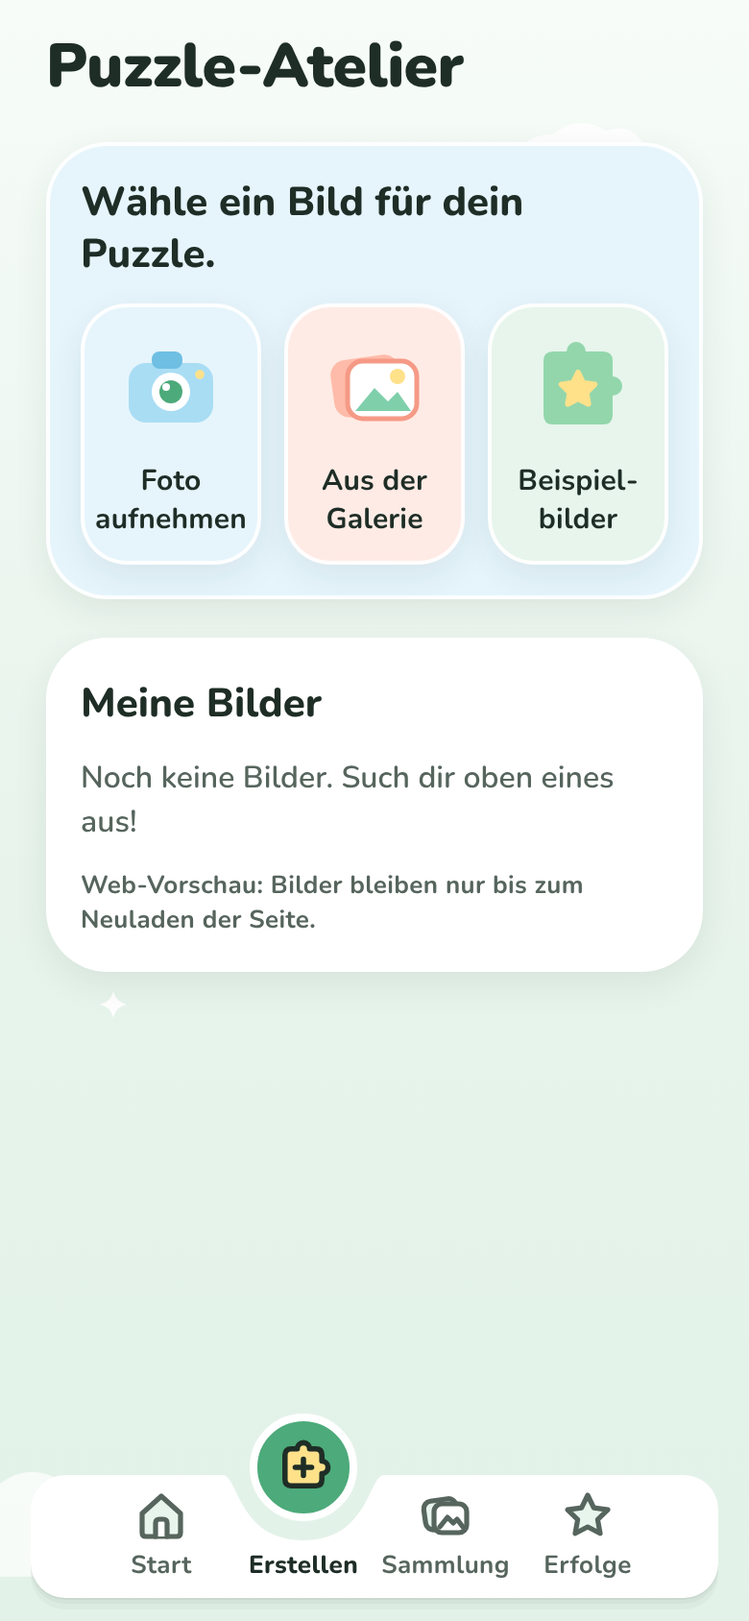
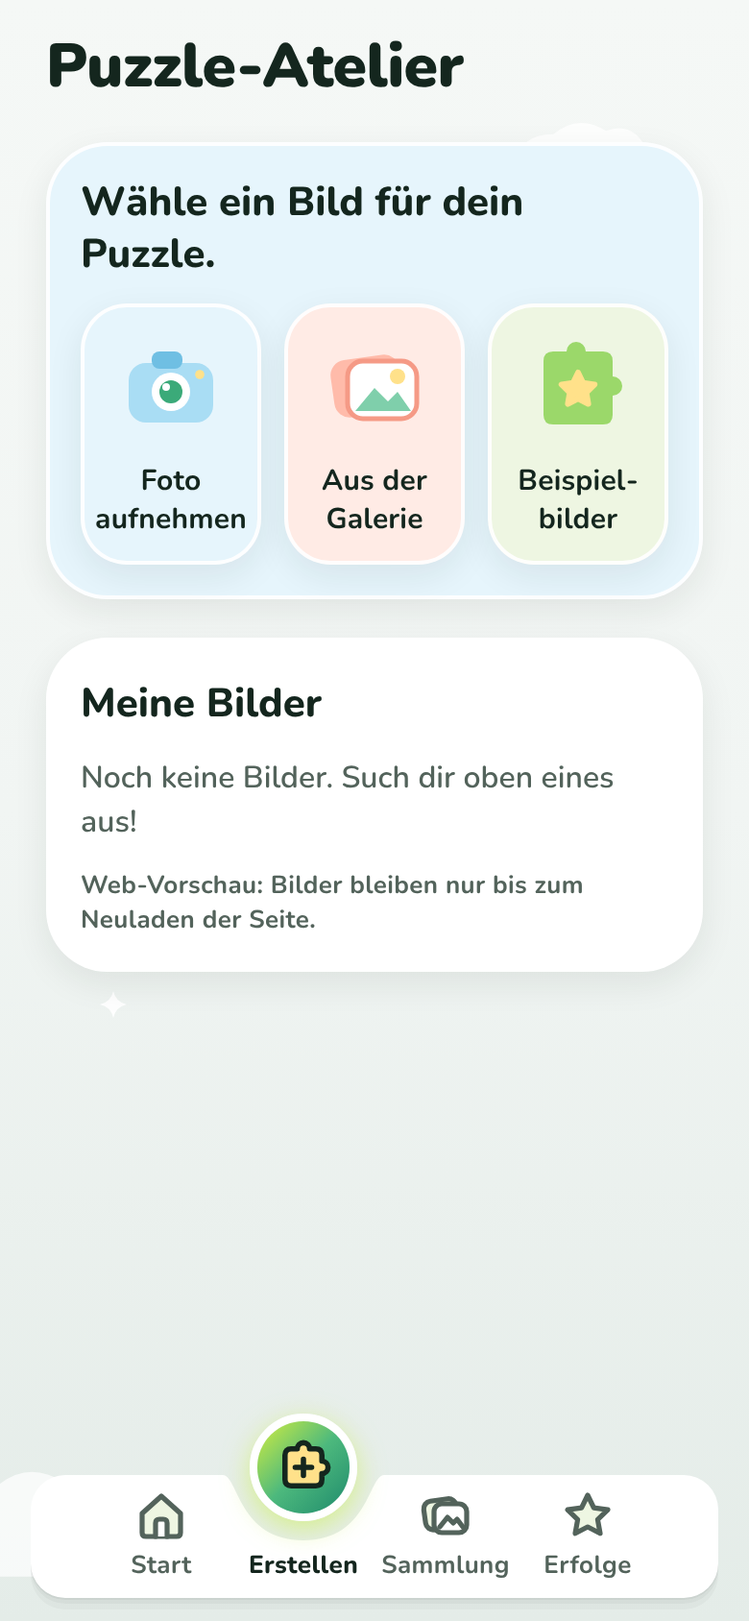
docs: describe Pino after the PO's concept art and the file hand-over
Claude-Session: https://claude.ai/code/session_01CZ9FFcy5zGQryXQRGVkaUU

Changed region(s): [[0.3077, 0.8626, 0.4923, 0.955], [0.7077, 0.2156, 0.8308, 0.2773]]

diff --git a/docs/previews/milestone-reports/2026-11-04-update-02-mint-style.md b/docs/previews/milestone-reports/2026-11-04-update-02-mint-style.md
@@ -1,30 +1,29 @@
-# Änderung 02 – Neuer Look: Mint und weiches 3D
+# Änderung 02 – Neuer Look: Pino als glänzendes Puzzleteil, Limette → Petrol
 
-**Datum:** 2026-11-04 · **Anlass:** Wunsch des PO („Maskottchen und Farben diesem Stil anpassen“, Referenzbild mit weichem, glänzendem 3D in Mint) · Entscheidung des PO: **Mint/Grün als Grundfarbe** · **Status:** umgesetzt, wartet auf Review
+**Datum:** 2026-11-04 · **Anlass:** Wunsch des PO – zuerst Stil-Referenz (weiches 3D, Mint), dann **eigenes Konzeptbild des PO**: Pino als glänzendes Puzzleteil mit Limette-Petrol-Verlauf und Neon-Effekten, „genau dieses Maskottchen, Stil auf die ganze App“ · **Status:** umgesetzt (Pino als Vektor-Nachzeichnung bis die Original-Dateien vom PO kommen), wartet auf Review
 
 > Screenshots stammen aus der **laufenden App** (Web via Chromium; Android-/iOS-Läufe siehe unten). Die Pino-Übersicht ist direkt aus dem App-Code (`pinoSvg`) gerendert.
 
 ## Was sich ändert
 
-| Bereich                             | Vorher                   | Jetzt                                                                                                                                                     |
-| ----------------------------------- | ------------------------ | --------------------------------------------------------------------------------------------------------------------------------------------------------- |
-| Markenfarbe                         | Lavendel / Lila          | frisches **Mint/Grün** (`leaf`-Skala), kleiner Markentext tief-grün (`forest`)                                                                            |
-| Hintergründe                        | Creme mit Rosa-Hauch     | helles **Mint-Weiß** (`mist`)                                                                                                                             |
-| Haupt-Knöpfe                        | gelb mit dunkler Schrift | **tiefgrün, glänzend, weiße Schrift** wie „Get started“ in der Referenz; „Weiter“/„Fertig“ grün                                                           |
-| Große Aktionskarte                  | heller Lila-Verlauf      | tiefgrüner Verlauf, weiße Schrift                                                                                                                         |
-| Tab-Leiste                          | lila Blase               | grüne Blase                                                                                                                                               |
-| Text                                | Navy / Grau-Lila         | grün-getöntes Fast-Schwarz (`ink`) / Grau (`slate`)                                                                                                       |
-| Schatten                            | Navy-getönt              | grün-getönt, weich                                                                                                                                        |
-| **Pino**                            | Honiggelb, Kontur        | **Mint, weiches 3D**: Licht von oben links, dunklere Unterseite, großer Glanz, grünes Leuchten am Boden, kaum Kontur; Stern-Clip jetzt gelb, Wangen rosig |
-| App-Icon, Startbild, Beispielbilder | alt                      | neu gerendert im neuen Stil                                                                                                                               |
+| Bereich                             | Vorher                   | Jetzt                                                                                                                                                                                                                                                                                                    |
+| ----------------------------------- | ------------------------ | -------------------------------------------------------------------------------------------------------------------------------------------------------------------------------------------------------------------------------------------------------------------------------------------------------- |
+| **Pino**                            | gelbes Quadrat mit Armen | **glänzendes Puzzleteil mit vier Knubbeln** nach dem Konzeptbild des PO: Verlauf Limette → Grün → Petrol, Glanz oben links, dunklere Unterseite, kleine dunkle Augen, schmales Lächeln, leicht schräg; **Neon-Limette-Effekte** je Stimmung (Funkeln, Ring, Fragezeichen, „!“-Striche, Krone, Herz, Zzz) |
+| Markenfarben                        | Lavendel / Lila          | **Limette → Grün → Petrol** (`lime`, `leaf`-Skala, `teal`), Neon-Limette (`neon`) als Leuchtakzent, kleiner Markentext tief-petrol (`forest`)                                                                                                                                                            |
+| Hintergründe                        | Creme mit Rosa-Hauch     | kühles, weiches **Grau-Grün** (`mist`) wie im Konzeptbild                                                                                                                                                                                                                                                |
+| Haupt-Knöpfe                        | gelb, dunkle Schrift     | **tief petrolgrün, glänzend, weiße Schrift**; „Weiter“/„Fertig“ grün                                                                                                                                                                                                                                     |
+| Große Aktionskarte                  | Lila-Verlauf             | **Pino-Verlauf Limette → Grün**, dunkle Schrift                                                                                                                                                                                                                                                          |
+| Tab-Leiste                          | lila Blase               | Blase im Pino-Verlauf mit weißem Ring und Neon-Schimmer                                                                                                                                                                                                                                                  |
+| Text / Schatten                     | Navy                     | grün-getöntes Fast-Schwarz (`ink`), grün-getönte Schatten                                                                                                                                                                                                                                                |
+| App-Icon, Startbild, Beispielbilder | alt                      | neu gerendert mit dem neuen Pino                                                                                                                                                                                                                                                                         |
 
-Gelb, Himmelblau, Pfirsich und Rosa bleiben als **Akzente** (Sterne, Belohnungen, Kategorie-Karten) – wie die gelbe und blaue Karte im Referenzbild.
+Gelb, Himmelblau, Pfirsich und Rosa bleiben als **Akzente** (Sterne, Belohnungen, Kategorie-Karten).
 
-**Abgrenzung:** Aus der Referenz übernommen werden nur Licht, Material und Farbstimmung. Deren Figur (grüner Wolken-Blob) wird nicht nachgebildet – Pino bleibt ein Puzzleteil mit Stern-Clip, Armen und Füßen ([Maskottchen-Richtlinien](../../design/mascot-guidelines.md)).
+**Original-Dateien:** Der PO liefert Pino als PNG/SVG. Bis dahin ist Pino eine Vektor-Nachzeichnung im App-Code (`packages/ui/src/mascot/pino.ts`), damit er in allen Größen scharf bleibt und alle 8 Stimmungen funktionieren. Die gelieferten Dateien werden zentral an derselben Stelle eingesetzt – die Screens ändern sich dafür nicht. Lieferformat: siehe [Maskottchen-Richtlinien → Original-Dateien](../../design/mascot-guidelines.md#original-dateien-lieferung-durch-den-po).
 
-**Barrierefreiheit:** Alle Kontraste neu geprüft und getestet – Text ≥ 5,2 : 1, weiße Schrift auf beiden Grün-Knöpfen ≥ 4,9 : 1, Schalter ≥ 4,2 : 1.
+**Barrierefreiheit:** Kontraste neu geprüft und als Tests festgeschrieben – Text ≥ 5,3 : 1 auf allen Flächen, dunkle Schrift auf jeder Farbe des Limette-Grün-Verlaufs ≥ 6,4 : 1, weiße Schrift auf jeder Farbe beider Knopf-Verläufe ≥ 4,5 : 1 (der Test hat einen zu hellen Knopf-Verlauf gefunden – korrigiert), Schalter ≥ 4 : 1.
 
-**Zentral umgesetzt:** nur Tokens (`packages/ui/src/tokens.ts`), Maskottchen-Farben (`mascot/theme.ts`) und -Zeichnung (`mascot/pino.ts`). Screens nutzen weiter nur Tokens; der Flächen-Ton `lavender` heißt jetzt `leaf`.
+**Zentral umgesetzt:** nur Tokens (`tokens.ts`), Maskottchen (`mascot/theme.ts`, `mascot/pino.ts`) und zwei ui-Komponenten (große Karte, Tab-Blase). Screens nutzen weiter nur Tokens; der Flächen-Ton `lavender` heißt jetzt `leaf`.
 
 ## Bilder
 
@@ -44,7 +43,7 @@ Die Konzept-Mockups unter `docs/design/concept/` sind mit demselben Code neu ger
 
 ## Prüfung
 
-TypeScript, ESLint, Prettier ✅ · Tests ✅ (UI 58, App 67, Engine 91, image-processing 21, game-progression 10) · Web ohne Fehlermeldungen ✅ · Android-Emulator / iOS-Simulator: Läufe gestartet, Ergebnis wird hier nachgetragen.
+TypeScript, ESLint, Prettier ✅ · Tests ✅ (UI 60, App 67, Engine 91, image-processing 21, game-progression 10) · Web ohne Fehlermeldungen ✅ · Android-Emulator / iOS-Simulator: Läufe gestartet, Ergebnis wird hier nachgetragen.
 
 ## Bewusst noch offen
 

diff --git a/docs/design/mascot-guidelines.md b/docs/design/mascot-guidelines.md
@@ -1,44 +1,55 @@
 # Maskottchen „Pino“
 
-Status: **Umgesetzt (Phase 2), Stil-Update 2026-11-04 (Mint, weiches 3D), Gestaltung noch nicht final.** Quelle: [`packages/ui/src/mascot/pino.ts`](../../packages/ui/src/mascot/pino.ts) (Zeichnung), [`theme.ts`](../../packages/ui/src/mascot/theme.ts) (Farben), App-Komponente `<Mascot emotion=… />`. Übersicht: [`concept/concept-mascot-sheet.png`](concept/concept-mascot-sheet.png).
+Status: **Umgesetzt (Phase 2); seit 2026-11-04 nach dem Konzeptbild des PO als glänzendes Puzzleteil (Vektor-Nachzeichnung, bis die Original-Dateien des PO eingesetzt werden).** Quelle: [`packages/ui/src/mascot/pino.ts`](../../packages/ui/src/mascot/pino.ts) (Zeichnung), [`theme.ts`](../../packages/ui/src/mascot/theme.ts) (Farben), App-Komponente `<Mascot emotion=… />`. Übersicht: [`concept/concept-mascot-sheet.png`](concept/concept-mascot-sheet.png).
 Die React-Native-Komponente `<Mascot emotion="…" />` entsteht in Phase 2 aus derselben Geometrie.
 
 ## Charakter
 
 Pino ist ein kleines, weiches **Puzzleteil**. Er ist neugierig, geduldig und freut sich über jeden Fortschritt – nie ungeduldig, nie enttäuscht.
 
-| Merkmal       | Umsetzung                                                                                                                                                                                                  |
-| ------------- | ---------------------------------------------------------------------------------------------------------------------------------------------------------------------------------------------------------- |
-| Silhouette    | Abgerundetes Quadrat mit Puzzle-**Tab als Kopf-„Knubbel“**, seitliche Tabs als Arme, kurze Füße                                                                                                            |
-| Farbe         | **Seit 2026-11-04 (PO-Referenz):** frisches Mint, weiches 3D – runder Lichtverlauf `#F1FFF4 → leaf #93D6AC → leaf600 #4DAA7A` von oben links, dunklere Unterseite, kaum sichtbare Kontur (`leaf700` @16 %) |
-| Markenzeichen | Gelber Stern-Clip am Kopf (`palette.yellow`) – leuchtet auf dem Grün                                                                                                                                       |
-| Gesicht       | Große dunkle Augen (`ink`) mit 2 Glanzpunkten, rosige Wangen @72 %, kleiner Mund                                                                                                                           |
-| Licht         | Großer weicher Glanz oben links + Glanzpunkt, heller Bauch-Bogen, grünes Leuchten statt grauem Schatten am Boden                                                                                           |
+| Merkmal    | Umsetzung                                                                                                                          |
+| ---------- | ---------------------------------------------------------------------------------------------------------------------------------- |
+| Herkunft   | **Eigenes Konzeptbild des PO** (2026-11-04): „genau dieses Maskottchen“                                                            |
+| Silhouette | Weich aufgeblasenes **Puzzleteil mit vier Knubbeln** (oben, rechts, unten, links), fließende Übergänge, leicht schräg (−4 … −12°)  |
+| Farbe      | Verlauf **Limette `#E2F55A` → Grün `#4DB97D` → Petrol `#1E8A6C`** von oben links nach unten rechts, dunklere Petrol-Unterseite     |
+| Licht      | Großer weicher Glanz oben links, kleiner Glanz auf dem oberen Knubbel, zarter Limette-Schein um die Form, Petrol-Leuchten am Boden |
+| Gesicht    | Kleine dunkle ovale Augen mit Glanzpunkt, schmales Lächeln – keine Wangen, keine Kontur                                            |
+| Effekte    | **Neon-Limette `#C7F03A`** mit Leuchten: Funkeln, Ring, „?“, „!“-Striche, Krone, Herz, Zzz – je Stimmung eines                     |
 
-## Abgrenzung zur Referenz
+## Zustände (Vektor-Fassung)
 
-Die Referenzfigur (lila Blob mit Spross) wird **nicht** kopiert: andere Silhouette (Puzzleteil statt Tropfen), eigenes Accessoire (Stern statt Spross), eigener Name. Kein Peekaboo-Logo, keine fremden Markenbestandteile.
+| `emotion`   | Gesicht                 | Neon-Effekt      |
+| ----------- | ----------------------- | ---------------- |
+| `greeting`  | Augen offen, Lächeln    | Funkeln          |
+| `happy`     | Zwinkern, offener Mund  | leuchtender Ring |
+| `thinking`  | Blick nach oben, „hmm“  | Fragezeichen     |
+| `surprised` | große Augen, „o“        | „!“-Striche      |
+| `excited`   | lachende Augen, Grinsen | „!“-Striche      |
+| `success`   | stolzer Blick, Lächeln  | Krone            |
+| `encourage` | lachende Augen, Lächeln | Herz             |
+| `sleeping`  | geschlossene Augen      | Zzz              |
 
-Stil-Referenz vom 2026-11-04 (weiches, glänzendes 3D in Mint, Milchglas-Karten): übernommen werden nur **Licht, Material und Farbstimmung**. Die dortige Figur (grüner Wolken-Blob) wird nicht nachgebildet – Pino bleibt ein Puzzleteil mit Stern-Clip, Armen und Füßen.
+## Original-Dateien (Lieferung durch den PO)
 
-## Zustände
+Damit Pino **pixelgenau** wie im Konzeptbild aussieht, werden die Original-Dateien eingesetzt, sobald sie da sind:
 
-| #   | `emotion`   | Einsatz                                           |
-| --- | ----------- | ------------------------------------------------- |
-| 1   | `greeting`  | Welcome, App-Start, leere Zustände                |
-| 2   | `happy`     | Home-Begrüßung, Teil eingerastet                  |
-| 3   | `thinking`  | Creator (Auswahl), Laden                          |
-| 4   | `surprised` | Neues Achievement entdeckt                        |
-| 5   | `excited`   | Neues Puzzle erstellt                             |
-| 6   | `success`   | Puzzle abgeschlossen                              |
-| 7   | `encourage` | Längere Pause ohne Fortschritt, „Fast geschafft!“ |
-| 8   | `sleeping`  | Pause-Screen, Ruhemodus, Nachtmodus               |
+- **Je Stimmung eine Datei**, Dateiname = `emotion` (z. B. `greeting.png`, `happy.png` …, die 8 Namen oben).
+- **Bevorzugt SVG** (bleibt in jeder Größe scharf, ohne Text/Schriften), sonst **PNG mit transparentem Hintergrund**, quadratisch, mindestens **1024 × 1024 px**.
+- **Nur die Figur samt ihrem Effekt** (Krone, Herz …) – kein Hintergrund, keine Bühne, kein Rahmen; Figur mittig mit etwas Rand.
+- Optional: App-Icon hell/dunkel als 1024 × 1024 px ohne abgerundete Ecken (die Ecken setzt das System).
+- Ablage: einfach hier im Chat senden oder ins Repo unter `apps/mobile/assets/mascot/`.
+
+Die Screens ändern sich dafür nicht – nur `pinoSvg`/`<Mascot>` liefert dann die Dateien.
+
+## Abgrenzung zu fremden Figuren
+
+Pino entsteht aus dem **eigenen Konzeptbild des PO**. Fremde Figuren aus Stil-Referenzen (lila Blob mit Spross, grüner Wolken-Blob) werden nicht nachgebildet; keine fremden Logos oder Markenbestandteile.
 
 ## Regeln
 
 - Immer über die `Mascot`-Komponente – keine eingebetteten Einzelbilder.
 - Mindestgröße 64 dp (darunter verliert das Gesicht an Lesbarkeit).
-- Nicht verzerren, nicht umfärben, Stern-Clip immer sichtbar.
+- Nicht verzerren, nicht umfärben.
 - Max. **ein** Maskottchen pro Screen.
 - Animation: dezentes Atmen/Wippen (≤ 3 % Scale, 2,4 s) nur auf Welcome/Erfolg; bei Reduced Motion statisch.
 - Pino spricht in kurzen, positiven Sätzen in Du-Form („Fast geschafft!“, „Super gemacht!“). Nie Druck, nie Zeitlimits.
@@ -50,7 +61,7 @@ Pino ist bewusst so gebaut, dass er **später ohne App-Umbau** geändert oder er
 
 | Was soll sich ändern?                                        | Wo                                                           | Auswirkung                                  |
 | ------------------------------------------------------------ | ------------------------------------------------------------ | ------------------------------------------- |
-| Farben (Körper, Wangen, Stern …)                             | `packages/ui/src/mascot/theme.ts`                            | überall sofort: App, Icons, Splash, Mockups |
+| Farben (Verlauf, Glanz, Neon …)                              | `packages/ui/src/mascot/theme.ts`                            | überall sofort: App, Icons, Splash, Mockups |
 | Form, Gesicht, Posen                                         | `packages/ui/src/mascot/pino.ts`                             | überall sofort                              |
 | Komplett neue Illustrationen (z. B. von einer Illustratorin) | `pinoSvg()` liefert dann je Emotion die gelieferte SVG-Datei | keine Änderung an Screens                   |
 | Neue Emotion                                                 | Eintrag in `MASCOT_EMOTIONS`                                 | Tests prüfen automatisch Vollständigkeit    |

diff --git a/docs/design/design-system.md b/docs/design/design-system.md
@@ -5,7 +5,7 @@
 > Visuelle Übersicht: [`concept/concept-design-tokens.png`](concept/concept-design-tokens.png)
 
 **Stil:** Soft Pastel Cartoon · Whimsical Illustration · Premium Kids App · Gentle Playful UI
-**Stil-Update 2026-11-04 (PO-Referenz):** frisches **Mint/Grün** statt Lavendel/Lila, weiches glänzendes 3D beim Maskottchen, dunkelgrüne Haupt-Knöpfe mit weißer Schrift. Gelb, Himmelblau, Pfirsich bleiben Akzentfarben (Sterne, Belohnungen, Kategorien).
+**Stil-Update 2026-11-04 (Konzeptbild des PO):** Pino als glänzendes Puzzleteil; Markenverlauf **Limette → Grün → Petrol** mit **Neon-Limette** als Leuchtakzent, kühles Grau-Grün als Hintergrund, tief petrolgrüne Haupt-Knöpfe mit weißer Schrift. Gelb, Himmelblau, Pfirsich bleiben Akzentfarben (Sterne, Belohnungen, Kategorien).
 Grundlage: [reference-analysis.md](reference-analysis.md)
 
 ## 1. Prinzipien
@@ -21,21 +21,22 @@ Grundlage: [reference-analysis.md](reference-analysis.md)
 
 | Rolle                | Token                                    | Wert                              | Verwendung                                                       |
 | -------------------- | ---------------------------------------- | --------------------------------- | ---------------------------------------------------------------- |
-| Haupt-Hintergrund    | `color.background.primary` (`mist`)      | `#F4FAF6`                         | dominante Fläche, Mint-Weiß                                      |
-| Sekundär-Hintergrund | `color.background.secondary` (`mist200`) | `#E8F4EC`                         | Verläufe, Sektionen                                              |
-| Marke                | `color.brand.soft` / `.main` / `.strong` | `#93D6AC` / `#4DAA7A` / `#1D4A36` | Tab-Blase, Auswahl, Fortschritt; `strong` für kleinen Markentext |
-| Haupt-Aktion         | `color.action.accent` (`forest`)         | `#1D4A36`                         | „Los geht's“, „Zum Atelier“ – weiße Schrift                      |
-| Bestätigen           | `color.action.primary` (`leaf700`)       | `#2F7F57`                         | „Weiter“, „Fertig“ – weiße Schrift                               |
+| Haupt-Hintergrund    | `color.background.primary` (`mist`)      | `#F1F5F3`                         | dominante Fläche, kühles Grau-Grün                               |
+| Sekundär-Hintergrund | `color.background.secondary` (`mist200`) | `#E4ECE8`                         | Verläufe, Sektionen                                              |
+| Marke                | `color.brand.soft` / `.main` / `.strong` | `#9BD86A` / `#3BAA79` / `#123E33` | Tab-Blase, Auswahl, Fortschritt; `strong` für kleinen Markentext |
+| Haupt-Aktion         | `color.action.accent` (`forest`)         | `#123E33`                         | „Los geht's“, „Zum Atelier“ – weiße Schrift                      |
+| Bestätigen           | `color.action.primary` (`leaf700`)       | `#1F7F62`                         | „Weiter“, „Fertig“ – weiße Schrift                               |
 | Akzente              | `palette.yellow`, `sky`, `peach`, `pink` | `#FFE18A` …                       | Sterne, Belohnungen, Kategorie-Karten                            |
-| Text primär          | `color.text.primary` (`ink`)             | `#1E2D26`                         | Titel, Labels                                                    |
-| Text sekundär        | `color.text.secondary` (`slate`)         | `#56655D`                         | Fließtext                                                        |
+| Text primär          | `color.text.primary` (`ink`)             | `#14261E`                         | Titel, Labels                                                    |
+| Text sekundär        | `color.text.secondary` (`slate`)         | `#53635B`                         | Fließtext                                                        |
 
-Tonstufen `*100` = Kartenflächen, `leaf600/700` = Icons/Schalter, `forest` = kleiner Markentext und Haupt-Knöpfe.
+Tonstufen `*100` = Kartenflächen, `leaf600/700` = Icons/Schalter, `forest` = kleiner Markentext und Haupt-Knöpfe. **Pino-Verlauf** `gradient.brand` / `brandDeep` (`lime #D4EE3F` → Grün → `teal #1E8A6C`) für große Aktionskarte und Tab-Blase, **`neon #C7F03A`** nur als Leuchten (nie für Text).
 
 **Kontrastregeln (WCAG 2.2 AA, in `tokens.test.ts` geprüft):**
 
-- `ink` auf allen Flächen ≥ 12 : 1, `slate` ≥ 5,2 : 1 ✅
-- Weiß auf `forest` ≈ 10 : 1, auf `leaf700` ≈ 4,9 : 1 – beide Knopfvarianten für jede Schriftgröße ✅
+- `ink` auf allen Flächen ≥ 13 : 1, `slate` ≥ 5,2 : 1 ✅
+- Weiß auf jeder Farbe beider Knopf-Verläufe ≥ 4,5 : 1 ✅
+- Dunkle Schrift (`ink`) auf jeder Farbe des Pino-Verlaufs der großen Karte ≥ 6,4 : 1 ✅
 - `leaf600`/`leaf` nur für Flächen, Symbole und große Formen, **nie** für kleinen Text.
 - **Schalter** (`color.control.*`, WCAG 1.4.11 Nicht-Text-Kontrast ≥ 3 : 1, Phase 8): An = gefüllte Spur `leaf700` mit weißem Knopf (≥ 4,2 : 1 auf allen Kartenflächen), Aus = umrandete Spur mit dunklem Knopf `slate` (≥ 5,2 : 1). Der Zustand ist zusätzlich an der Knopfposition erkennbar – nie nur an der Farbe. Getestet in `packages/ui/test/tokens.test.ts`.
 
@@ -44,7 +45,7 @@ Tonstufen `*100` = Kartenflächen, `leaf600/700` = Icons/Schalter, `forest` = kl
 | Token                                     | Einsatz                                            |
 | ----------------------------------------- | -------------------------------------------------- |
 | `gradient.screenWarm`                     | Standard-Hintergrund (Creme → Blush)               |
-| `gradient.screenDream`                    | Erzähl-/Creator-Screens (Mint-Hauch)               |
+| `gradient.screenDream`                    | Erzähl-/Creator-Screens (Limette-Hauch)            |
 | `gradient.playTable`                      | Spieltisch – kontrastarm, damit Teile hervortreten |
 | `gradient.buttonAccent` / `buttonPrimary` | Buttons (vertikal, hell → satt)                    |
 | `gradient.meadow`, `gradient.mascotBody`  | Illustration                                       |
@@ -111,13 +112,13 @@ Grün-getönt (`ink`), max. zwei Ebenen pro Screen: `shadow.card` (Karten), `sha
 Bausteine: `CloudIllustration`, `StarDecoration` (Stern, Funkeln), `Leaf`, `Flower`, `Meadow`.
 `DecorativeBackground` bekommt ein **Preset** pro Screen-Typ statt freier Platzierung:
 
-| Preset   | Screens                 | Elemente                          |
-| -------- | ----------------------- | --------------------------------- |
-| `meadow` | Welcome, Erfolg         | Wolken oben, Wiese + Blumen unten |
-| `sky`    | Home, Sammlung, Erfolge | 1–2 Wolken, 3–4 Sterne am Rand    |
-| `dream`  | Onboarding 2, Creator   | Mint-Verlauf, Wolken, Funkeln     |
-| `table`  | Gameplay                | keine Dekoration (Fokus)          |
-| `calm`   | Elternbereich           | nur Verlauf                       |
+| Preset   | Screens                 | Elemente                                     |
+| -------- | ----------------------- | -------------------------------------------- |
+| `meadow` | Welcome, Erfolg         | Wolken oben, Wiese + Blumen unten            |
+| `sky`    | Home, Sammlung, Erfolge | 1–2 Wolken, 3–4 Sterne am Rand               |
+| `dream`  | Onboarding 2, Creator   | Grau-Grün mit Limette-Hauch, Wolken, Funkeln |
+| `table`  | Gameplay                | keine Dekoration (Fokus)                     |
+| `calm`   | Elternbereich           | nur Verlauf                                  |
 
 Dekoration ist `pointerEvents="none"`, `accessible={false}` und liegt nie hinter Text.
 
